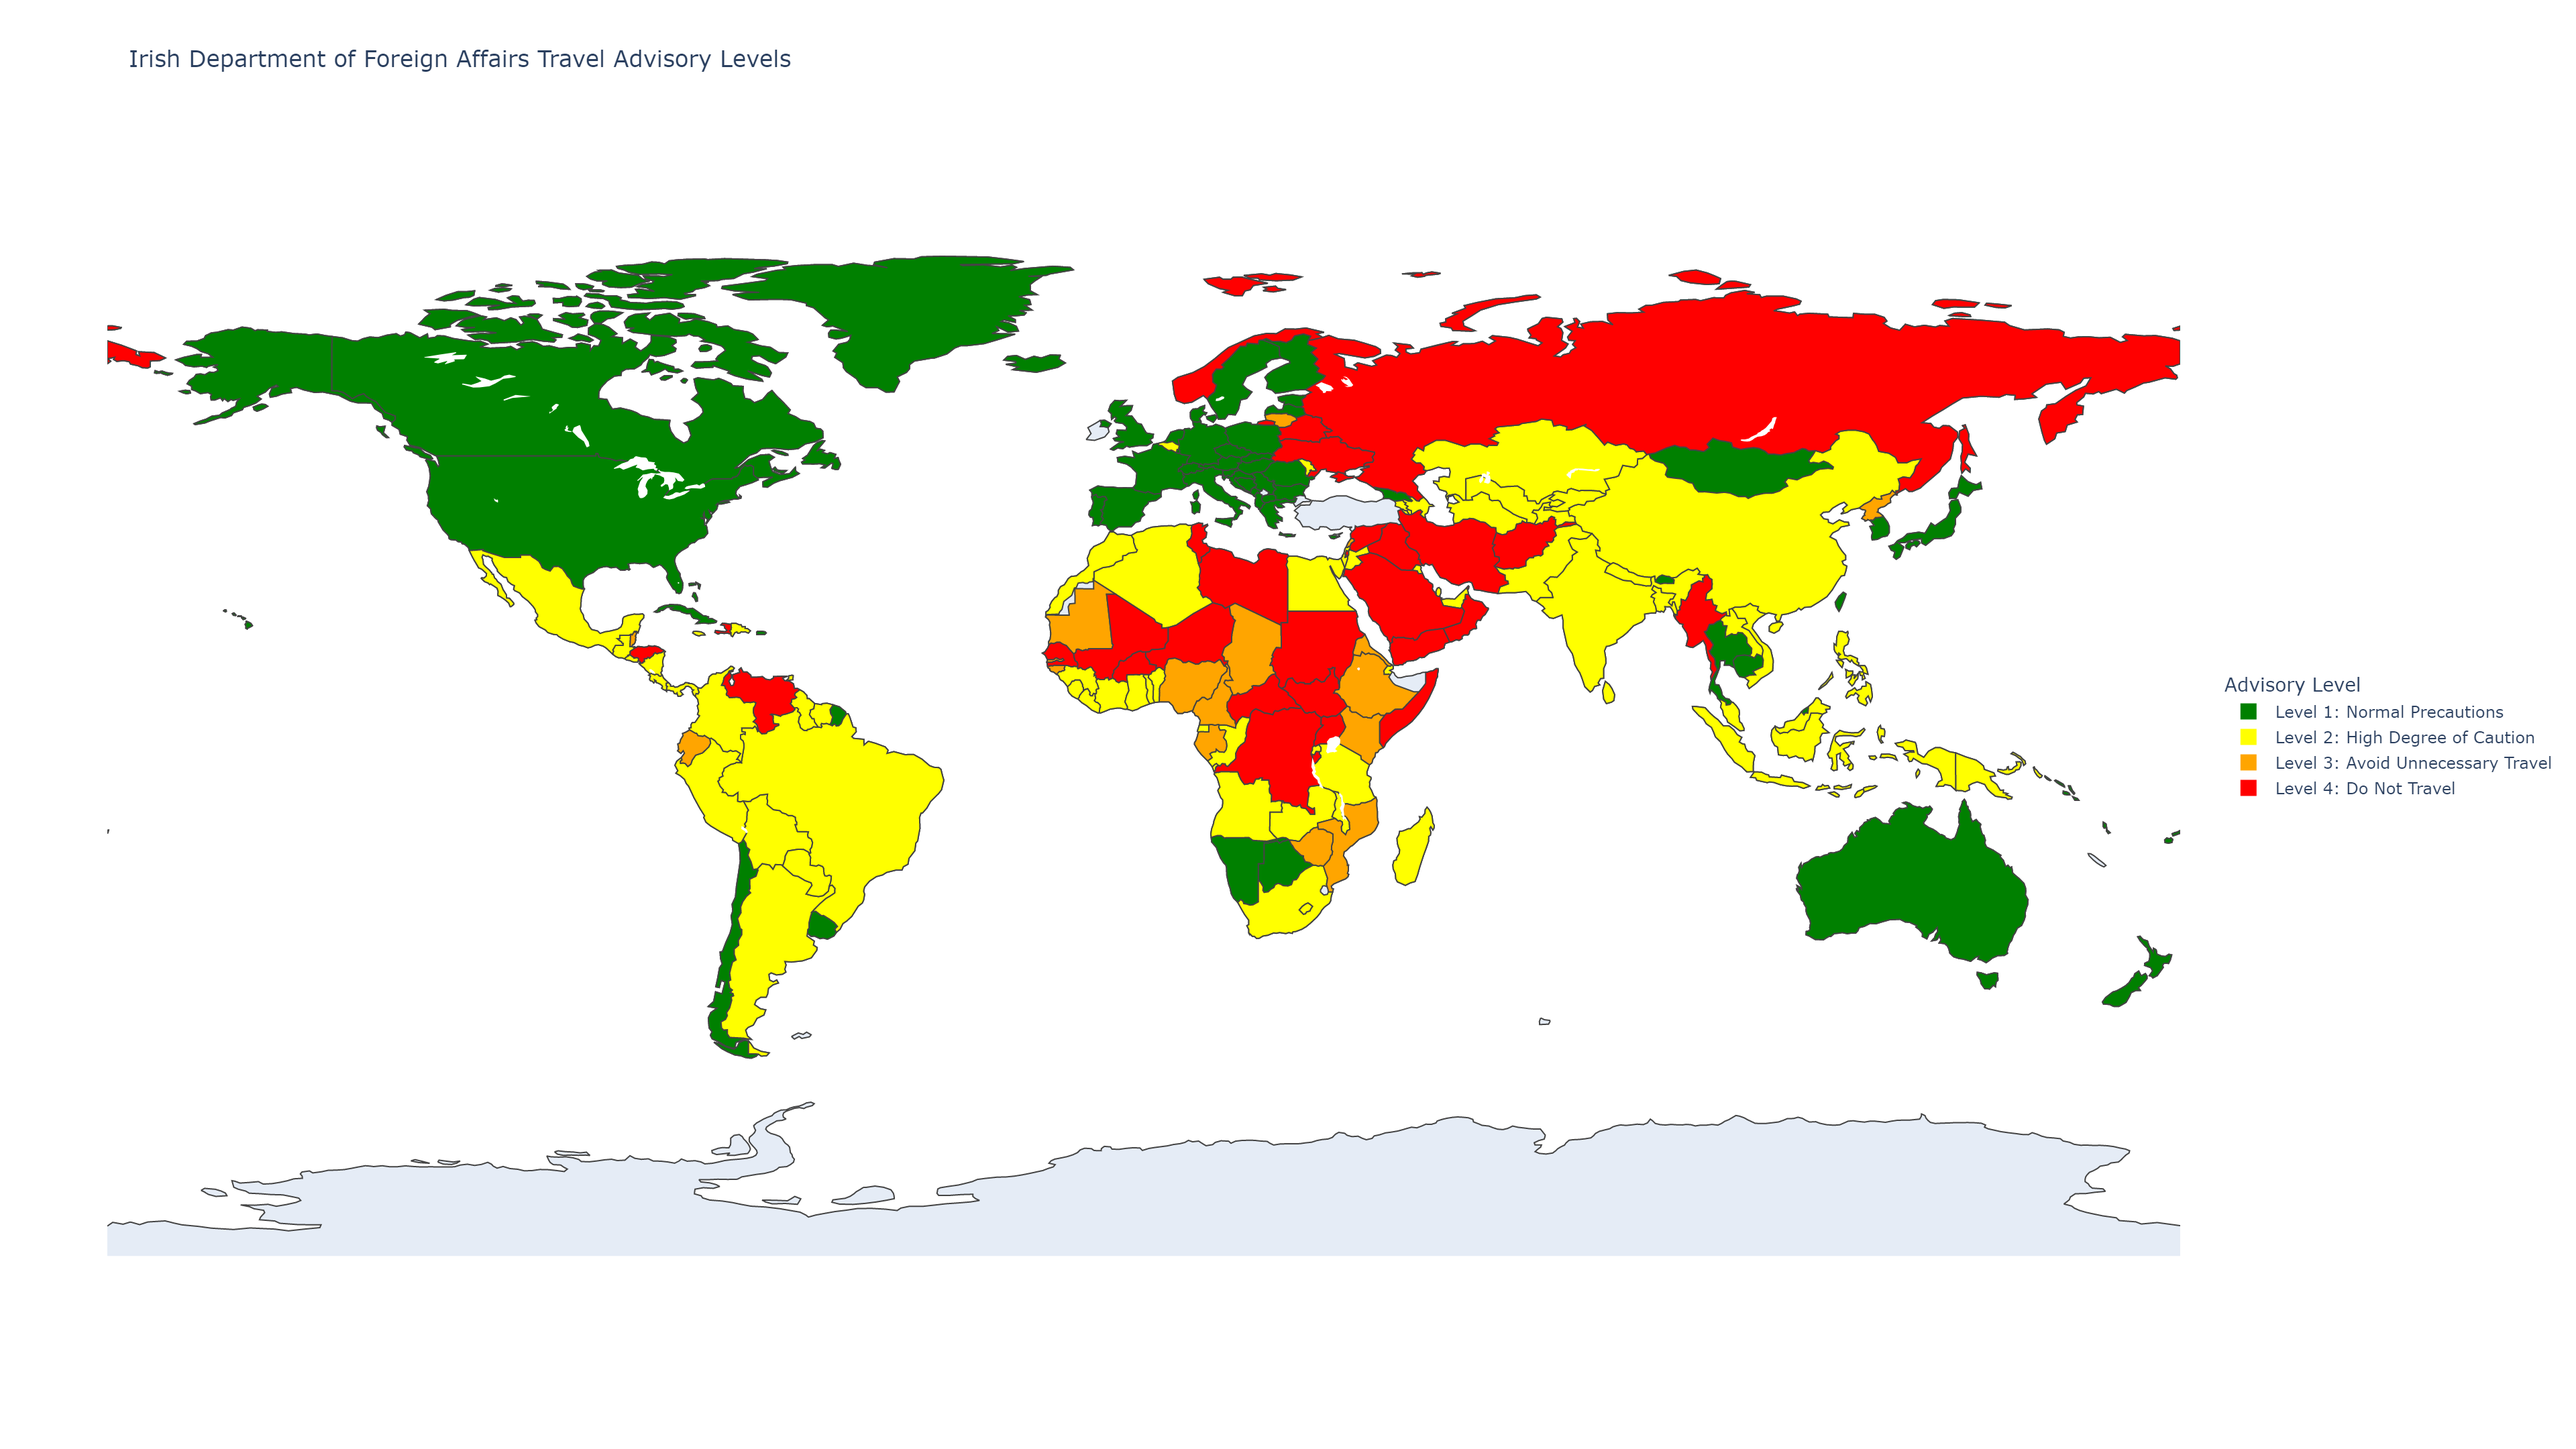
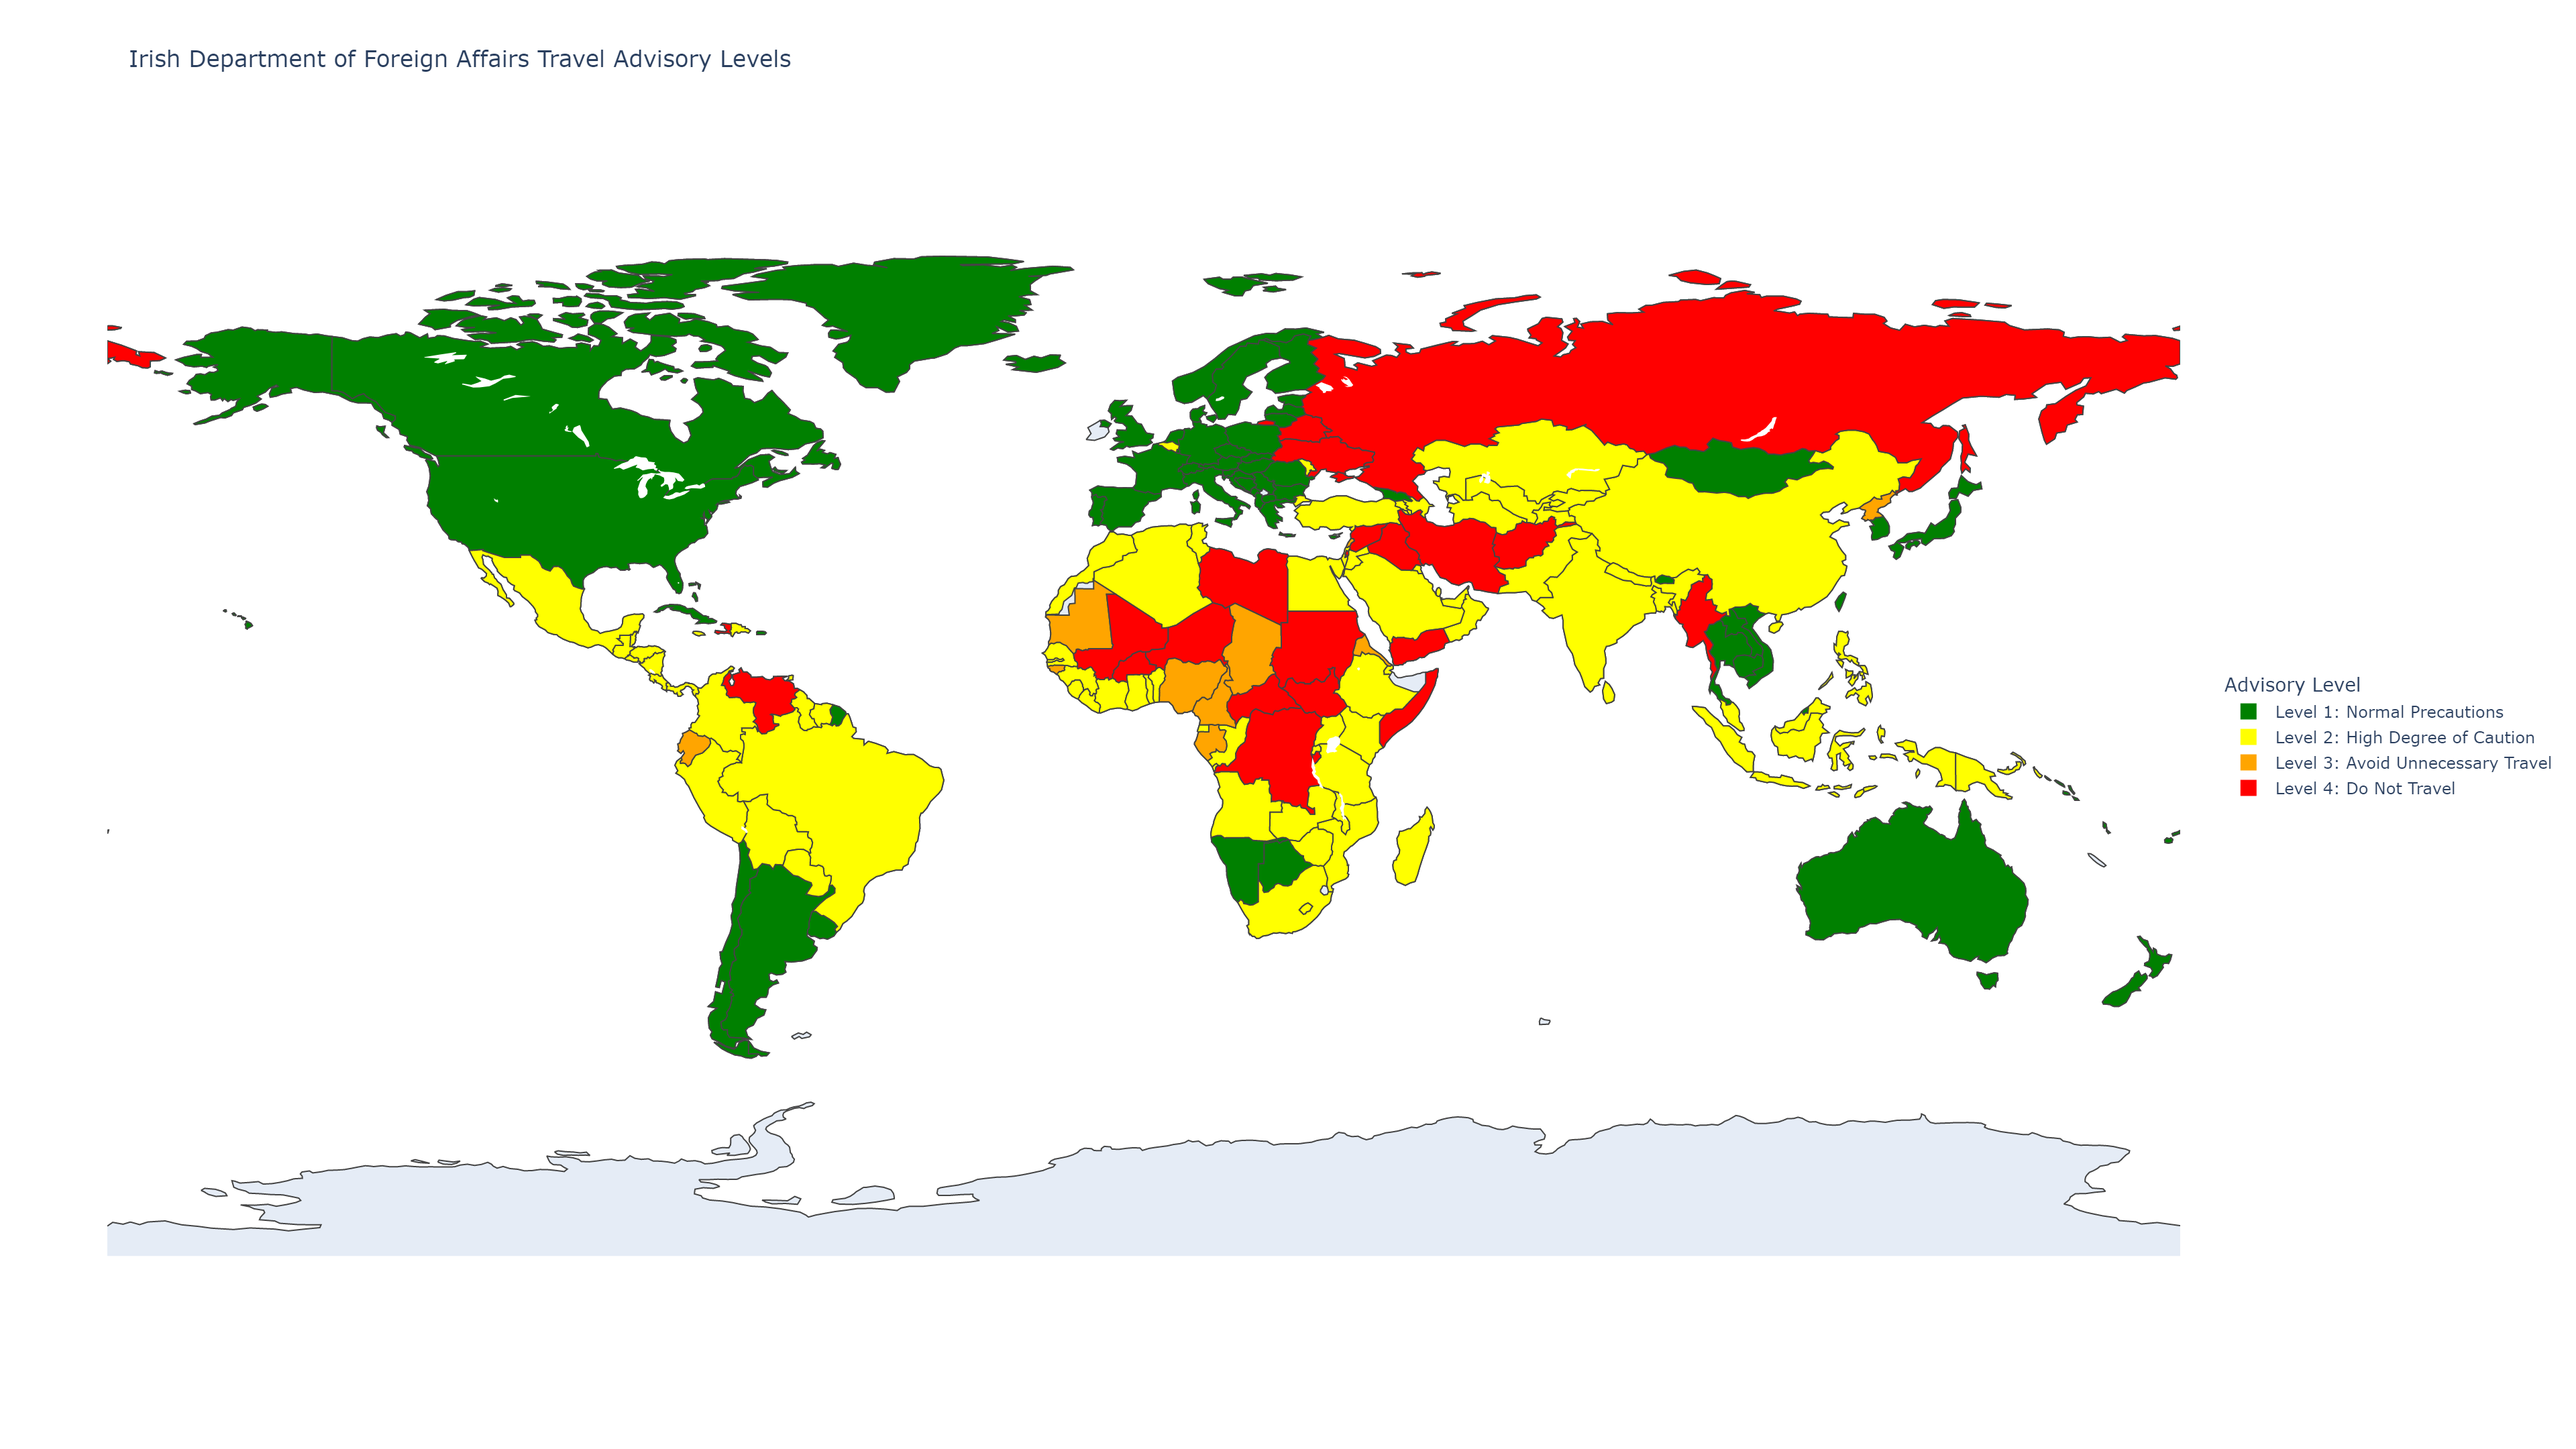
Fixed scraping bug - now targets correct HTML element

diff --git a/scrape_advisories.py b/scrape_advisories.py
@@ -87,20 +87,39 @@ def get_advisory_level(url):
         response.raise_for_status()
         soup = BeautifulSoup(response.content, 'html.parser')
         
-        # Extract all text from the page
-        page_text = soup.get_text().lower()
+        # Look for the specific advisory accordion element
+        # The DFA website uses: <div class="accordion_travel [level] accordion is-open">
+        advisory_div = soup.find('div', class_='accordion_travel')
         
-        # Check for each level in order of severity (highest to lowest)
-        if 'do not travel' in page_text:
-            return 4
-        elif 'avoid non-essential travel' in page_text or 'avoid unnecessary travel' in page_text:
-            return 3
-        elif 'high degree of caution' in page_text:
-            return 2
-        elif 'normal precautions' in page_text or 'normal security precautions' in page_text:
-            return 1
-        else:
-            return None
+        if advisory_div:
+            classes = advisory_div.get('class', [])
+            classes_str = ' '.join(classes).lower()
+            
+            # Check the class name for the advisory level
+            if 'do-not-travel' in classes_str:
+                return 4
+            elif 'avoid-non-essential-travel' in classes_str or 'avoid-unnecessary-travel' in classes_str:
+                return 3
+            elif 'high-degree-of-caution' in classes_str or 'high-degree-caution' in classes_str:
+                return 2
+            elif 'normal-precautions' in classes_str:
+                return 1
+        
+        # Fallback: Look for the h3 title within the accordion
+        accordion_title = soup.find('h3', class_='accordion__title')
+        if accordion_title:
+            title_text = accordion_title.get_text().strip().lower()
+            
+            if 'do not travel' in title_text:
+                return 4
+            elif 'avoid non-essential travel' in title_text or 'avoid unnecessary travel' in title_text:
+                return 3
+            elif 'high degree of caution' in title_text:
+                return 2
+            elif 'normal precautions' in title_text:
+                return 1
+        
+        return None
             
     except Exception as e:
         print(f"  Error: {e}")
